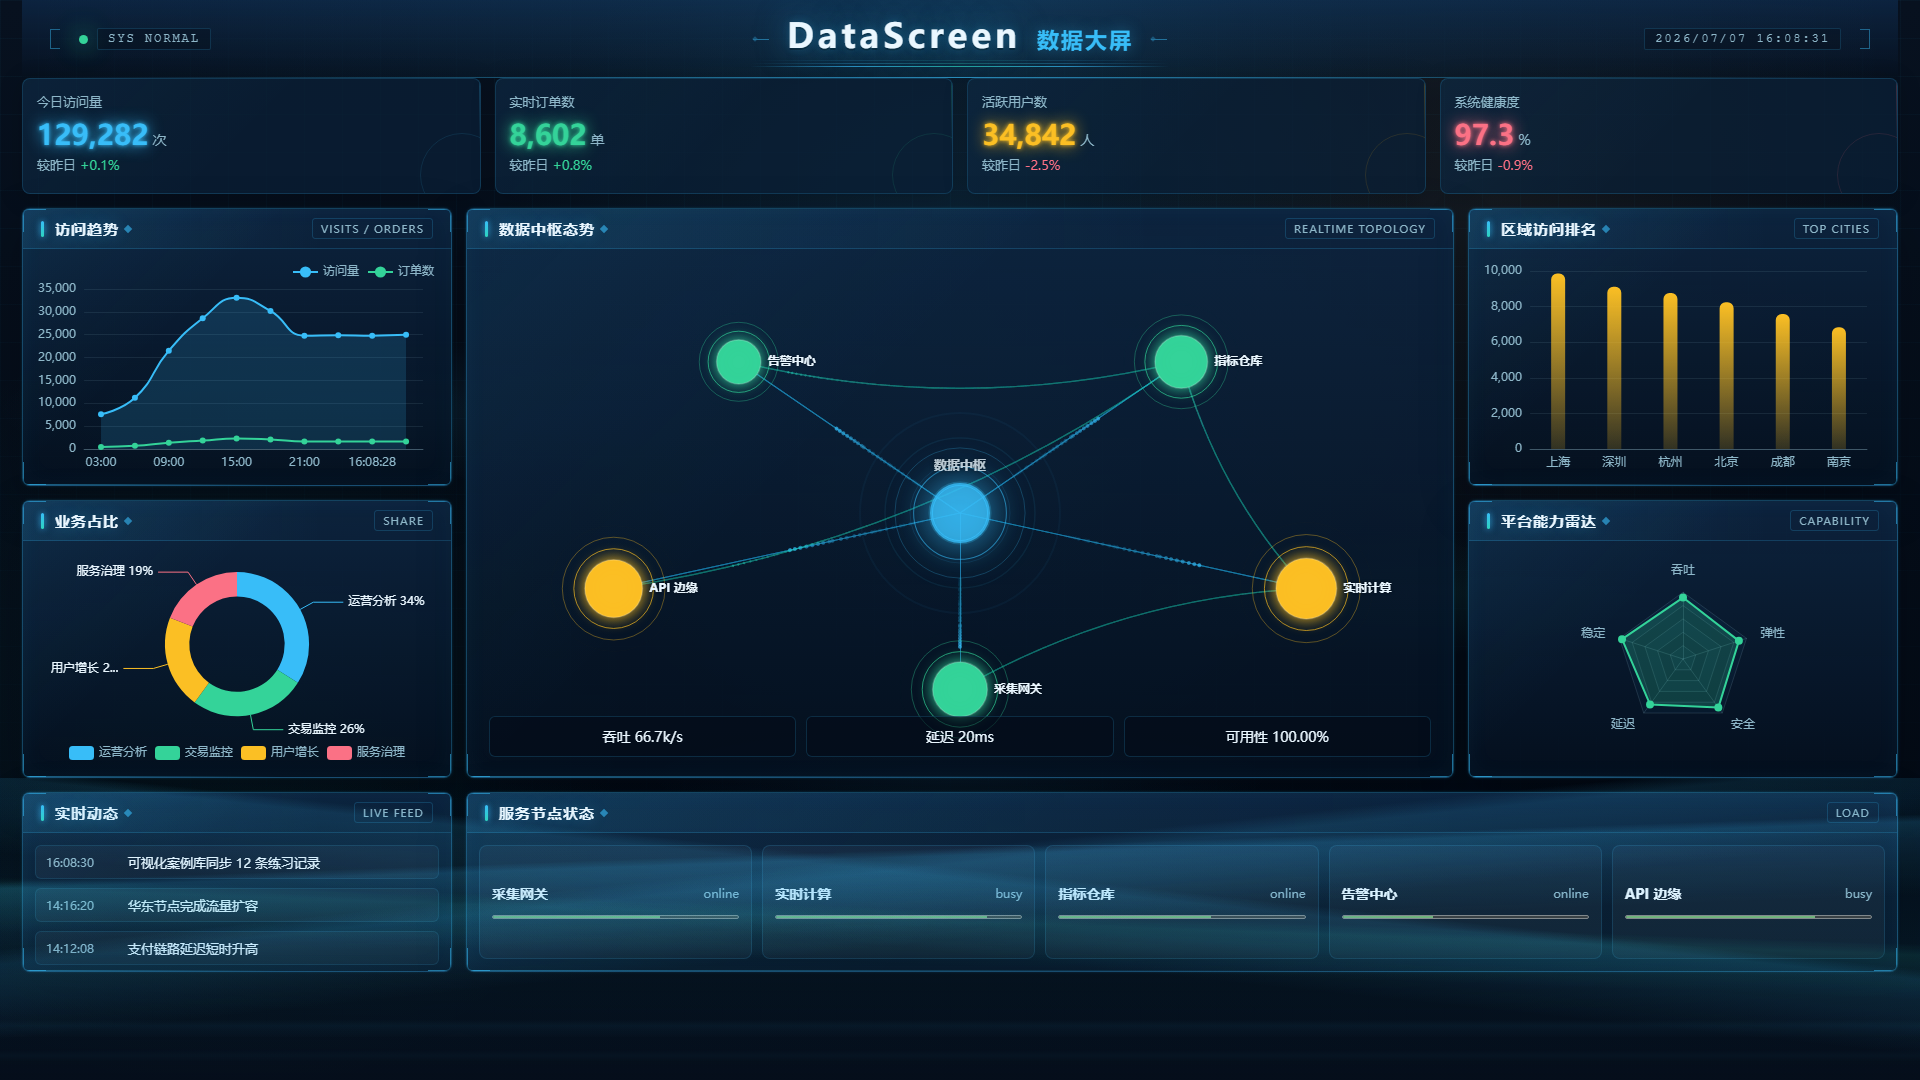
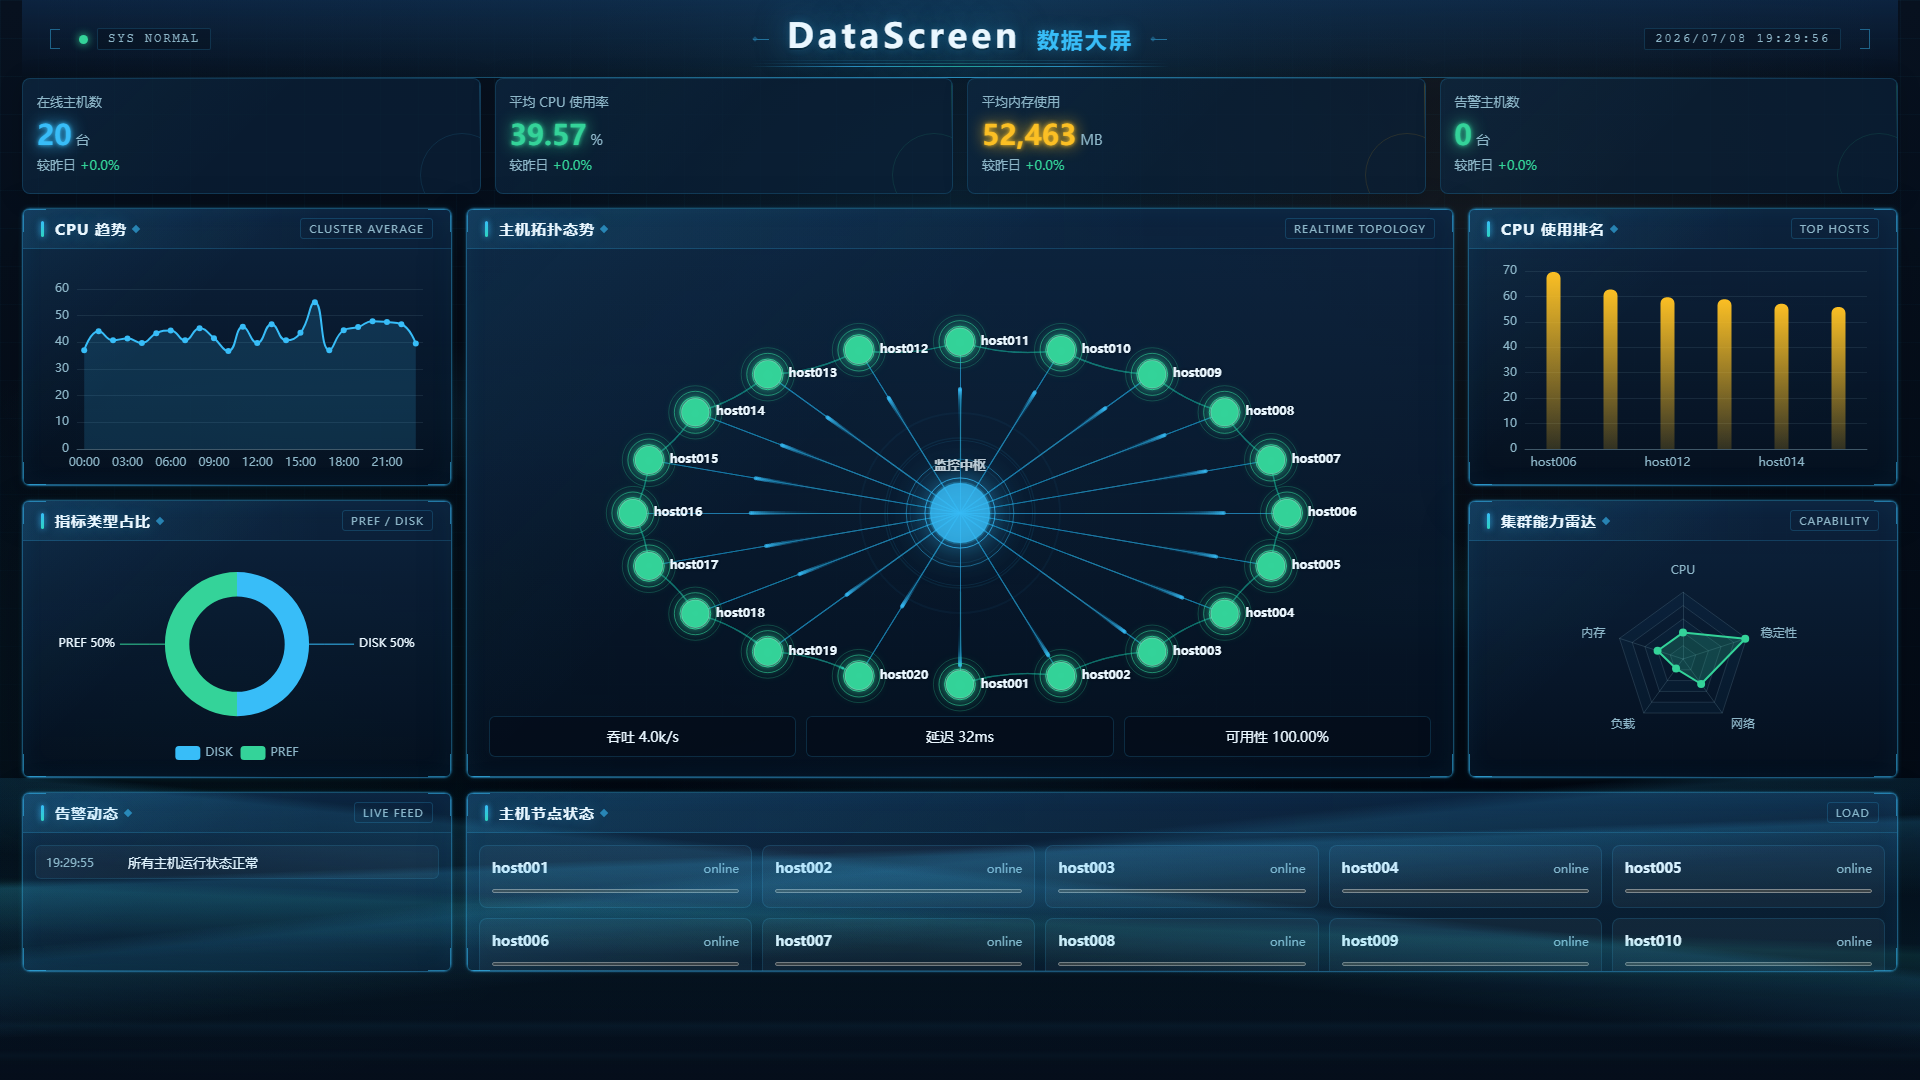
fix: MySQL 返回字符串导致 toFixed 报错 + server 合并 .new 版增强接口 + 清理临时文件 + 截图更新

diff --git a/src/services/dashboardService.ts b/src/services/dashboardService.ts
@@ -2,18 +2,25 @@ import { nextDashboardFrame } from '@/mocks/realtimeDashboardSimulator'
 import { http } from '@/services/http'
 import type { DashboardApiResponse, DashboardData, ServerHost } from '@/types/dashboard'
 
+// MySQL returns all numeric values as strings; this helper ensures we get numbers
+function n(v: unknown): number {
+  return Number(v) || 0
+}
+
 function transformApiResponse(api: DashboardApiResponse): DashboardData {
   const summary = api.summary
   const hosts = api.hosts
+  const avgCpu = n(summary.avg_cpu)
+  const avgMem = n(summary.avg_mem)
+  const avgLoad = n(summary.avg_load)
+  const alertHosts = n(summary.alert_hosts)
 
   // Map hosts to node status based on CPU usage
   const nodes: DashboardData['nodes'] = hosts.map((h: ServerHost) => {
-    const cpu = h.cpu_usage ?? 0
-    const status: DashboardData['nodes'][number]['status'] =
-      cpu >= 80 ? 'offline' : cpu >= 60 ? 'busy' : 'online'
+    const cpu = n(h.cpu_usage)
     return {
       name: h.hostid,
-      status,
+      status: cpu >= 80 ? 'offline' : cpu >= 60 ? 'busy' : 'online',
       load: Math.round(cpu),
     }
   })
@@ -30,19 +37,20 @@ function transformApiResponse(api: DashboardApiResponse): DashboardData {
 
   // Generate activities from hosts with high CPU usage
   const now = new Date()
-  const pad = (n: number) => String(n).padStart(2, '0')
+  const pad = (d: number) => String(d).padStart(2, '0')
   const time = `${pad(now.getHours())}:${pad(now.getMinutes())}:${pad(now.getSeconds())}`
   const activities: DashboardData['activities'] = []
   let idCounter = 1
   hosts
-    .filter((h) => (h.cpu_usage ?? 0) >= 70)
+    .filter((h) => n(h.cpu_usage) >= 70)
     .slice(0, 5)
     .forEach((h) => {
+      const cpu = n(h.cpu_usage)
       activities.push({
         id: `a${idCounter++}`,
         time,
-        title: `${h.hostid} CPU 使用率达到 ${(h.cpu_usage ?? 0).toFixed(1)}%`,
-        level: (h.cpu_usage ?? 0) >= 80 ? 'warning' : 'info',
+        title: `${h.hostid} CPU 使用率达到 ${cpu.toFixed(1)}%`,
+        level: cpu >= 80 ? 'warning' : 'info',
       })
     })
   if (activities.length === 0) {
@@ -52,48 +60,20 @@ function transformApiResponse(api: DashboardApiResponse): DashboardData {
   return {
     updatedAt: api.updatedAt,
     metrics: [
-      {
-        id: 'hosts',
-        label: '在线主机数',
-        value: summary.total_hosts,
-        unit: '台',
-        trend: 0,
-        tone: 'cyan',
-      },
-      {
-        id: 'cpu',
-        label: '平均 CPU 使用率',
-        value: Math.round((summary.avg_cpu ?? 0) * 100) / 100,
-        unit: '%',
-        trend: 0,
-        tone: (summary.avg_cpu ?? 0) >= 80 ? 'rose' : (summary.avg_cpu ?? 0) >= 60 ? 'amber' : 'green',
-      },
-      {
-        id: 'mem',
-        label: '平均内存使用',
-        value: Math.round((summary.avg_mem ?? 0) * 100) / 100,
-        unit: 'MB',
-        trend: 0,
-        tone: 'amber',
-      },
-      {
-        id: 'alerts',
-        label: '告警主机数',
-        value: summary.alert_hosts,
-        unit: '台',
-        trend: 0,
-        tone: summary.alert_hosts > 0 ? 'rose' : 'green',
-      },
+      { id: 'hosts', label: '在线主机数', value: n(summary.total_hosts), unit: '台', trend: 0, tone: 'cyan' },
+      { id: 'cpu', label: '平均 CPU 使用率', value: Math.round(avgCpu * 100) / 100, unit: '%', trend: 0, tone: avgCpu >= 80 ? 'rose' : avgCpu >= 60 ? 'amber' : 'green' },
+      { id: 'mem', label: '平均内存使用', value: Math.round(avgMem), unit: 'MB', trend: 0, tone: 'amber' },
+      { id: 'alerts', label: '告警主机数', value: alertHosts, unit: '台', trend: 0, tone: alertHosts > 0 ? 'rose' : 'green' },
     ],
-    trends: api.cpuTrend.map((t) => ({ time: t.time, value: Number(t.value.toFixed(2)) })),
-    categories: api.categories.map((c) => ({ name: c.name.toUpperCase(), value: c.value })),
-    rankings: api.topHosts.map((h) => ({ city: h.hostid, value: Math.round(h.value * 100) / 100 })),
+    trends: api.cpuTrend.map((t) => ({ time: t.time, value: Math.round(n(t.value) * 100) / 100 })),
+    categories: api.categories.map((c) => ({ name: c.name.toUpperCase(), value: n(c.value) })),
+    rankings: api.topHosts.map((h) => ({ city: h.hostid, value: Math.round(n(h.value) * 100) / 100 })),
     radar: [
-      { name: 'CPU', value: Math.round((summary.avg_cpu ?? 0) * 100) / 100, max: 100 },
-      { name: '内存', value: Math.min(100, Math.round(((summary.avg_mem ?? 0) / 131072) * 100 * 100) / 100), max: 100 },
-      { name: '负载', value: Math.min(100, Math.round((summary.avg_load ?? 0) * 100) / 100), max: 100 },
-      { name: '网络', value: Math.round(((summary.avg_mem ?? 0) % 1000) / 10 * 100) / 100, max: 100 },
-      { name: '稳定性', value: summary.alert_hosts > 0 ? 85 : 98, max: 100 },
+      { name: 'CPU', value: Math.round(avgCpu * 100) / 100, max: 100 },
+      { name: '内存', value: Math.min(100, Math.round((avgMem / 131072) * 100 * 100) / 100), max: 100 },
+      { name: '负载', value: Math.min(100, Math.round(avgLoad * 100) / 100), max: 100 },
+      { name: '网络', value: Math.round((avgMem % 1000) / 10 * 100) / 100, max: 100 },
+      { name: '稳定性', value: alertHosts > 0 ? 85 : 98, max: 100 },
     ],
     activities,
     nodes,
@@ -102,12 +82,9 @@ function transformApiResponse(api: DashboardApiResponse): DashboardData {
 }
 
 export async function getDashboardData(): Promise<DashboardData> {
-  // Real data from backend API (requires MySQL + server running)
   if (import.meta.env.VITE_DATA_SOURCE === 'api') {
     const response = await http.get<DashboardApiResponse>('/dashboard')
     return transformApiResponse(response.data)
   }
-
-  // Mock data with realtime simulation (fallback for demo / development)
   return Promise.resolve(nextDashboardFrame())
 }